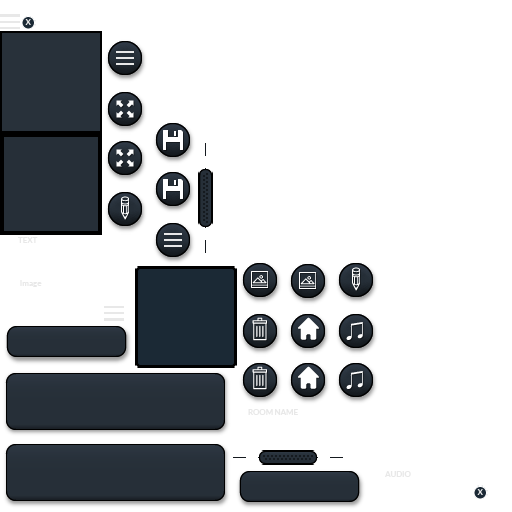
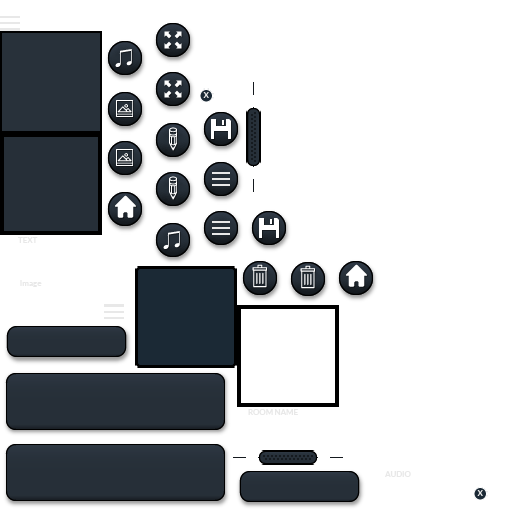
Added panning to editor.

diff --git a/editor/src/main/java/com/ray3k/liftoff/editor/Editor.java b/editor/src/main/java/com/ray3k/liftoff/editor/Editor.java
@@ -10,12 +10,14 @@ import com.badlogic.gdx.backends.lwjgl3.Lwjgl3ApplicationConfiguration;
 import com.badlogic.gdx.graphics.Color;
 import com.badlogic.gdx.graphics.OrthographicCamera;
 import com.badlogic.gdx.scenes.scene2d.Actor;
+import com.badlogic.gdx.scenes.scene2d.InputEvent;
 import com.badlogic.gdx.scenes.scene2d.Stage;
 import com.badlogic.gdx.scenes.scene2d.ui.Button;
 import com.badlogic.gdx.scenes.scene2d.ui.Skin;
 import com.badlogic.gdx.scenes.scene2d.ui.Table;
 import com.badlogic.gdx.scenes.scene2d.ui.TextButton;
 import com.badlogic.gdx.scenes.scene2d.utils.ChangeListener;
+import com.badlogic.gdx.scenes.scene2d.utils.DragListener;
 import com.badlogic.gdx.utils.Align;
 import com.badlogic.gdx.utils.ScreenUtils;
 import com.badlogic.gdx.utils.viewport.ExtendViewport;
@@ -68,14 +70,14 @@ public class Editor extends ApplicationAdapter {
 		viewport2 = new ScreenViewport();
 		stage2 = new Stage(viewport2);
 		
-		inputMultiplexer = new InputMultiplexer(stage1, stage2);
+		inputMultiplexer = new InputMultiplexer(stage2, stage1);
 		Gdx.input.setInputProcessor(inputMultiplexer);
 		
 		assetManager = new AssetManager(new InternalFileHandleResolver());
 		
 		root = new Table();
 		root.setFillParent(true);
-		root.setBackground(skin.getDrawable("bg-10"));
+		root.setBackground(skin.getDrawable("bg-transparent-10"));
 		stage2.addActor(root);
 		
 		showMenu();
@@ -136,14 +138,50 @@ public class Editor extends ApplicationAdapter {
 		
 		button = new Button(skin, "home");
 		root.add(button);
+		button.addListener(new ChangeListener() {
+			@Override
+			public void changed(ChangeEvent event, Actor actor) {
+				camera1.position.set(0, 0, 0);
+			}
+		});
 		
 		button = new Button(skin, "zoom-out");
 		root.add(button);
+		
+		textButton = new TextButton("test", skin);
+		stage1.addActor(textButton);
+		
+		var dragListener = new DragListener() {
+			float startX;
+			float startY;
+			
+			@Override
+			public void dragStart(InputEvent event, float x, float y, int pointer) {
+				System.out.println("start " + x + " " + y + " " + pointer);
+				startX = x;
+				startY = y;
+			}
+			
+			@Override
+			public void drag(InputEvent event, float x, float y, int pointer) {
+				System.out.println("drag " + x + " " + y + " " + pointer);
+				camera1.position.set(camera1.position.x - x + startX, camera1.position.y - y + startY, 0);
+//				startX = x;
+//				startY = y;
+			}
+			
+			@Override
+			public void dragStop(InputEvent event, float x, float y, int pointer) {
+				System.out.println("end " + x + " " + y + " " + pointer);
+			}
+		};
+		
+		stage1.addListener(dragListener);
 	}
 	
 	@Override
 	public void render() {
-		ScreenUtils.clear(Color.BLACK);
+		ScreenUtils.clear(skin.getColor("background"));
 		
 		stage1.act();
 		stage2.act();
